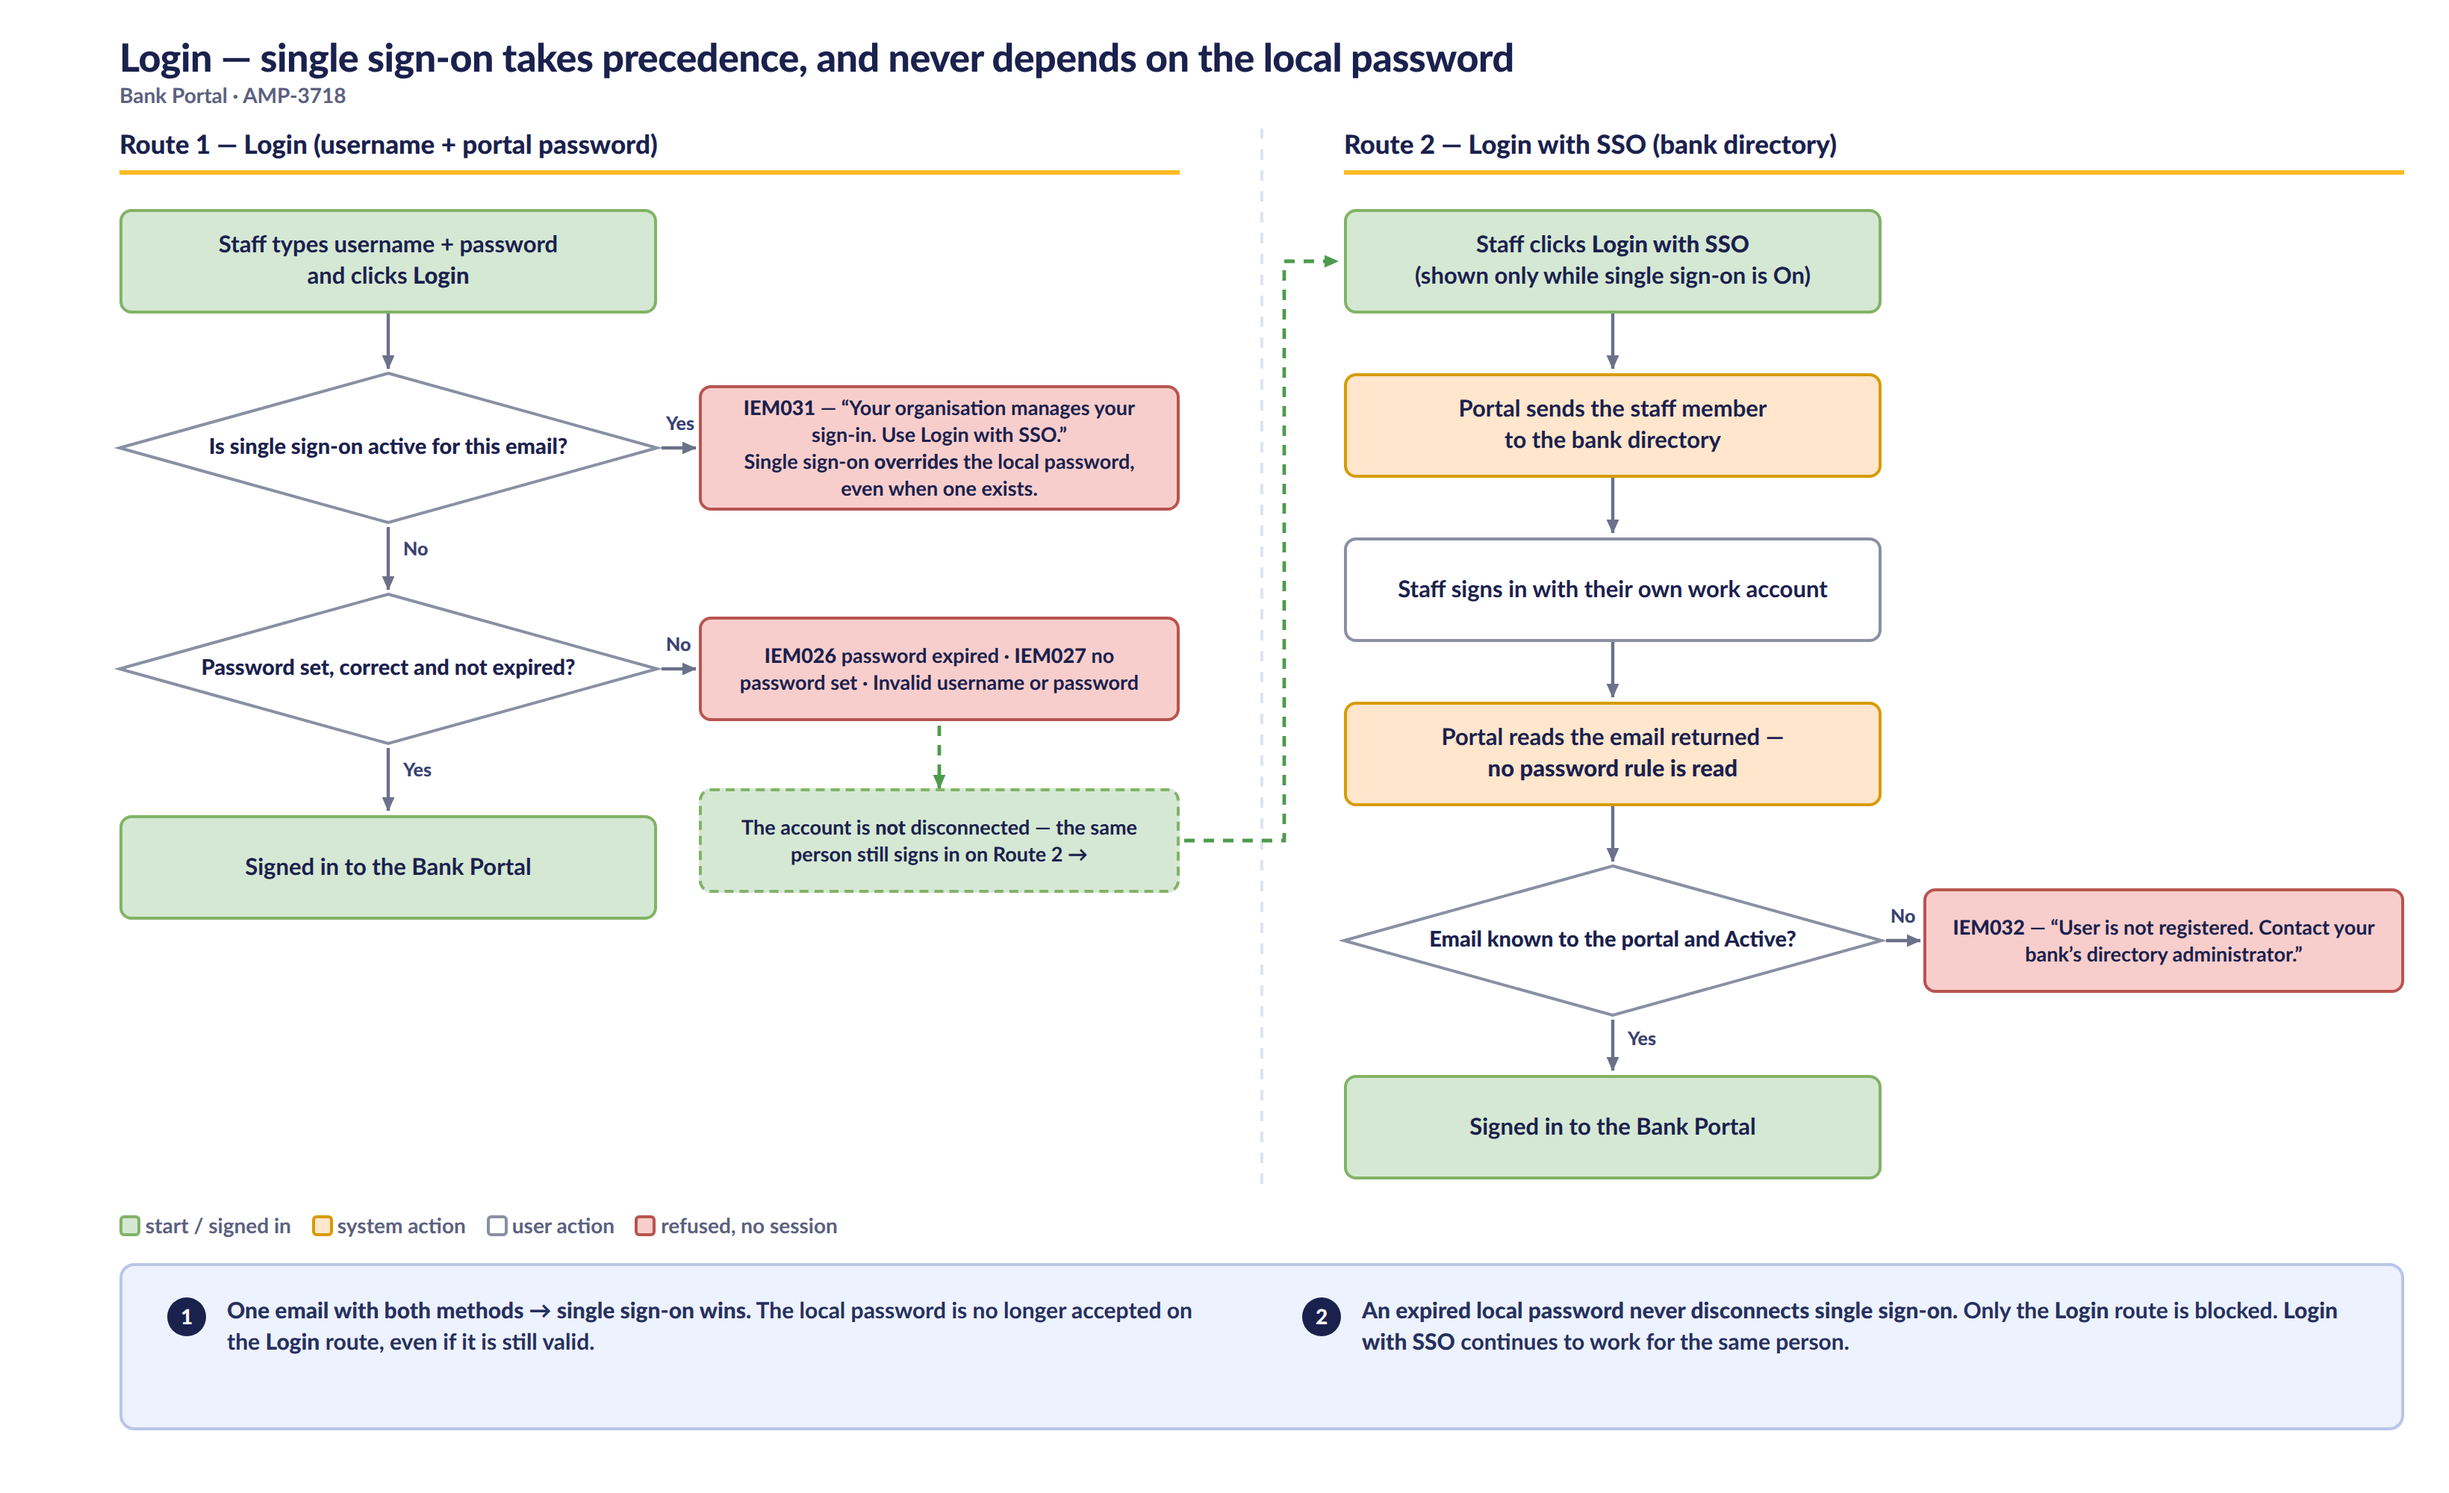
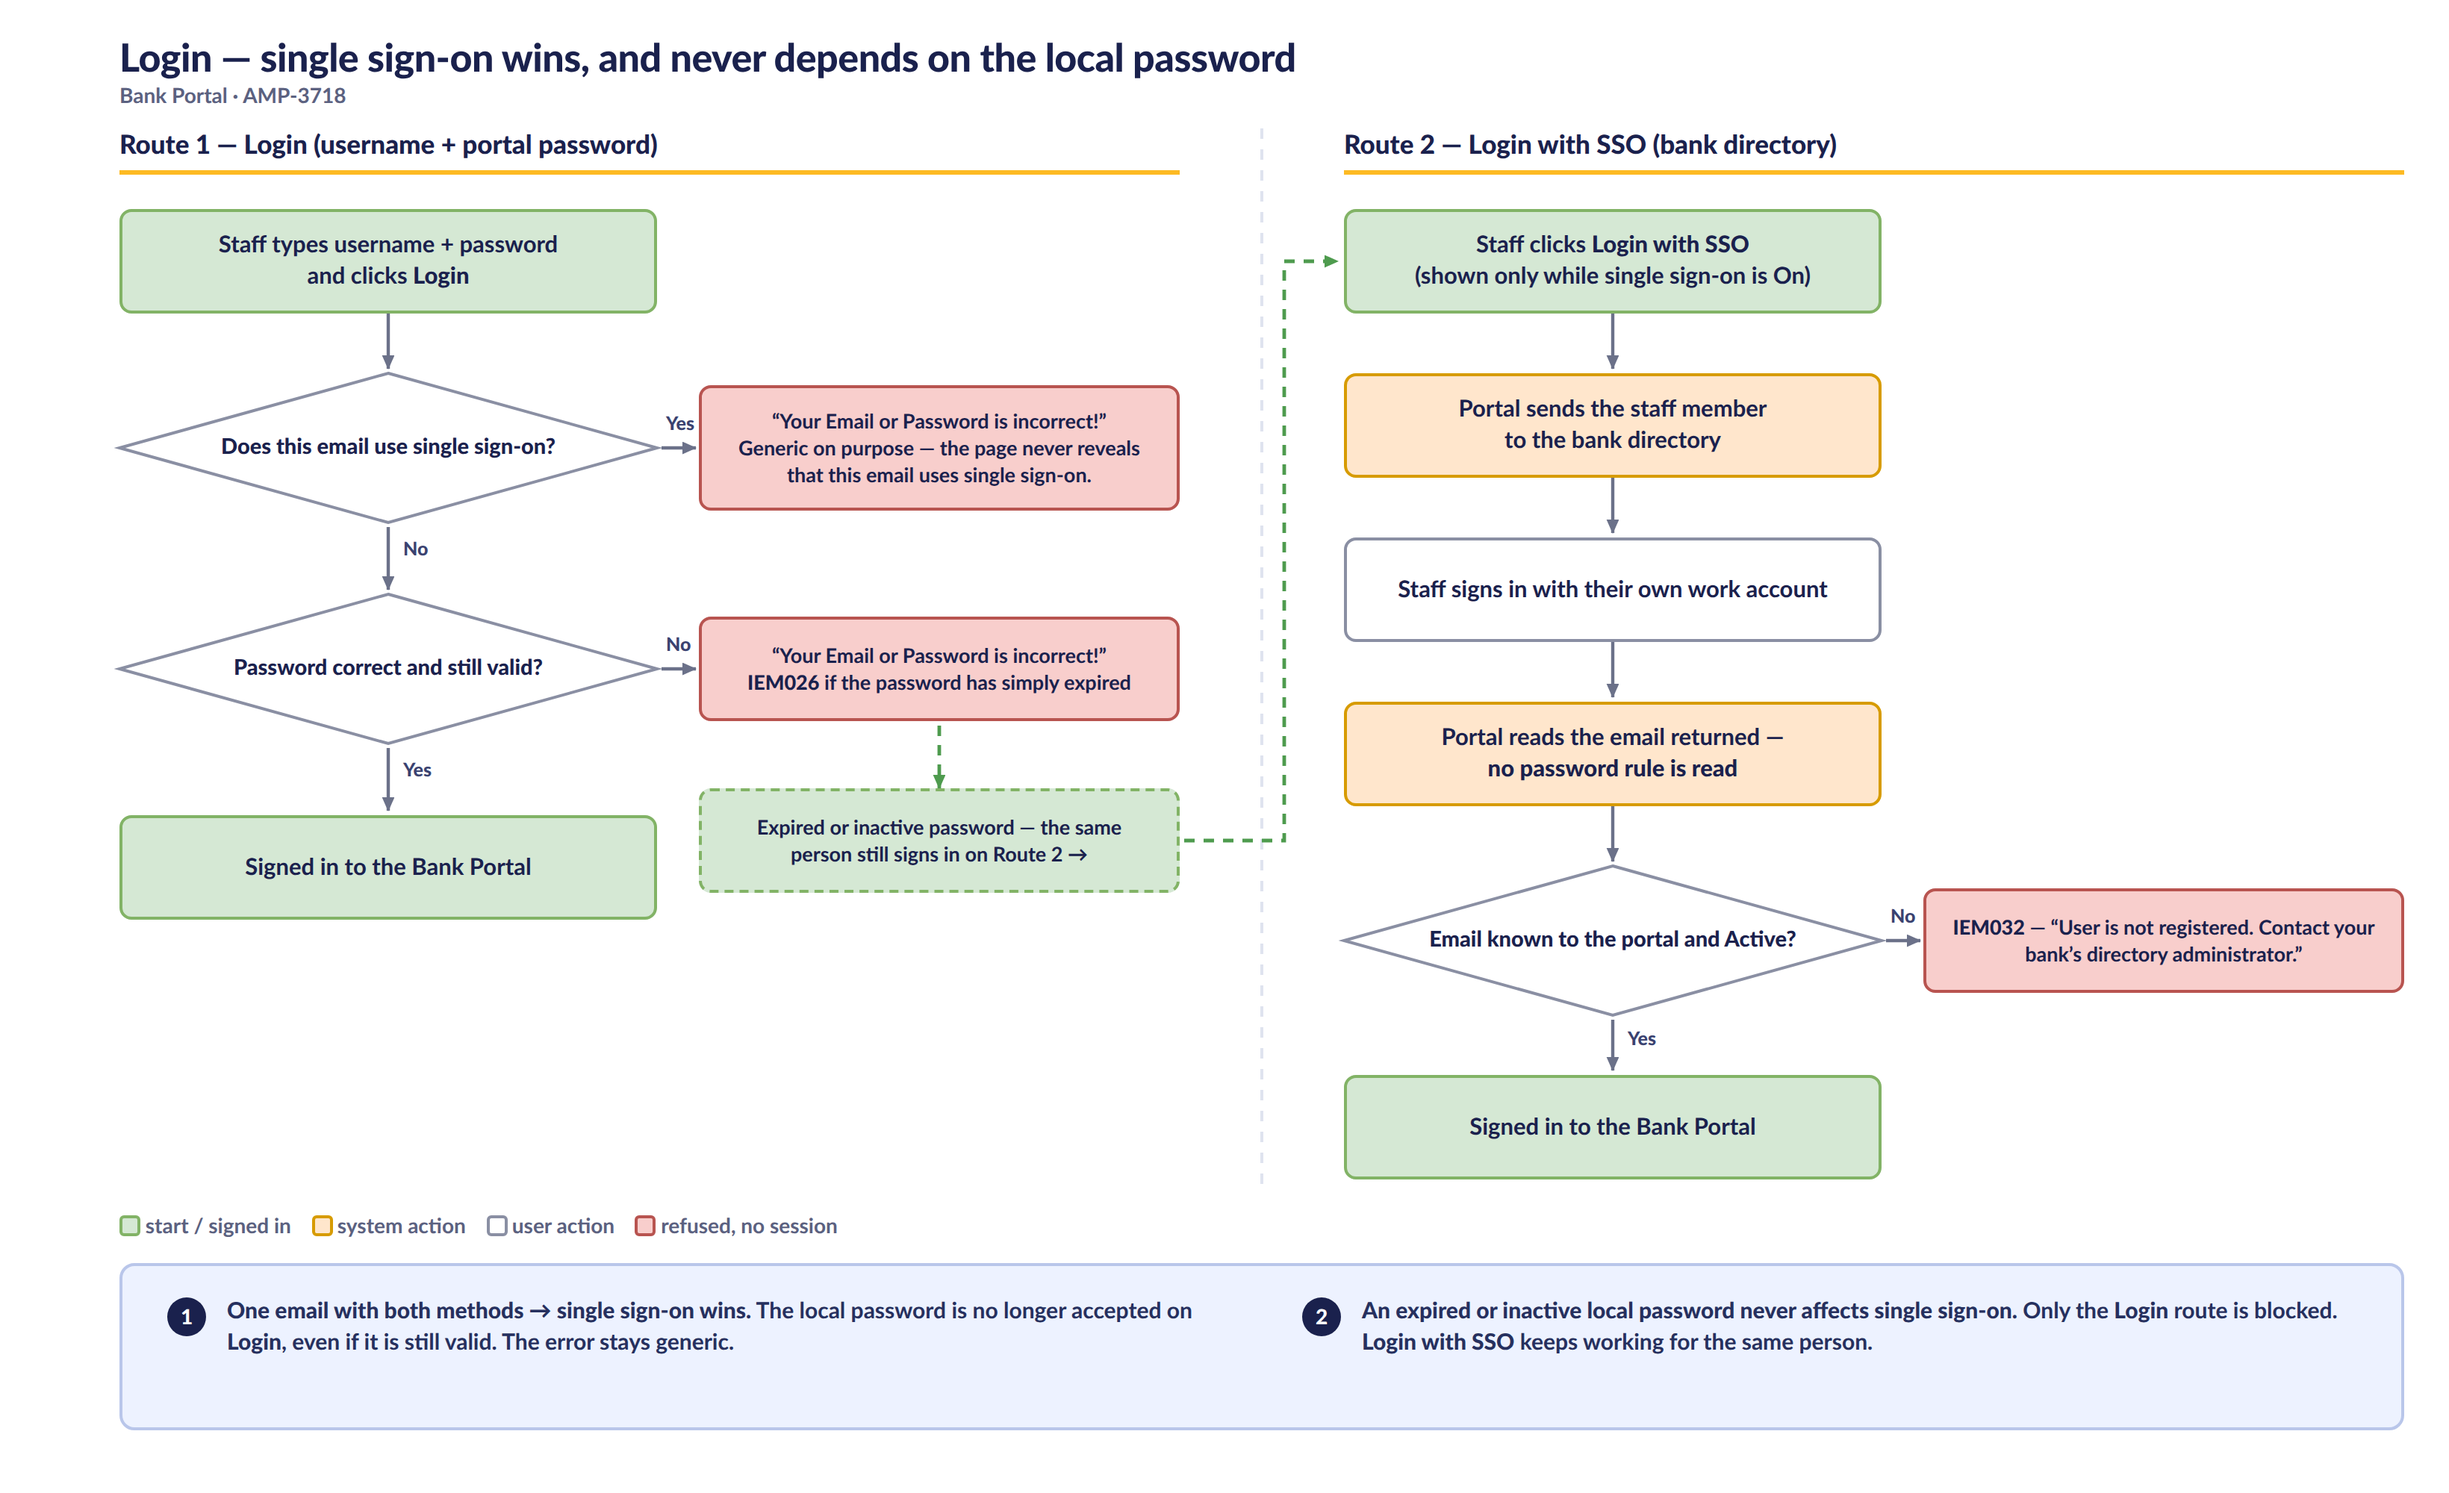
SSO: generic error on the local route when the email uses single sign-on
Claude-Session: https://claude.ai/code/session_01WLahjovvzGmaLqPdFzgAEY

diff --git a/sso-prototype/index.html b/sso-prototype/index.html
@@ -337,11 +337,10 @@ function renderPrimary(){
 u.addEventListener('input',()=>{clearMsgs();renderPrimary()});
 p.addEventListener('input',()=>{clearMsgs();renderPrimary()});
 $('#eye').addEventListener('click',()=>{S.showPwd=!S.showPwd;p.type=S.showPwd?'text':'password';$('#eye').innerHTML=S.showPwd?EYEOFF:EYE});
-$('#forgot').addEventListener('click',()=>{const acc=USERS[u.value.trim().toLowerCase()];if(usesSso(acc)){toast('Your organisation manages your sign-in. Use “Login with SSO”.')}else{toast('If this username exists, a reset email has been sent.')}});
+$('#forgot').addEventListener('click',()=>{toast('If this username exists, a reset email has been sent.')});
 $('#loginCard').addEventListener('submit',()=>{
   const e=u.value.trim().toLowerCase(),acc=USERS[e];clearMsgs();
-  if(acc&&acc.src==='Directory'){$('#userFi').classList.add('err');userMsg.innerHTML=inlineErr('Your organisation manages your sign-in. Use “Login with SSO”.');return}
-  if(!acc||acc.src!=='Portal'||p.value==='wrong'){$('#pwdFi').classList.add('err');pwdMsg.innerHTML=inlineErr('Invalid username or password.');return}
+  if(usesSso(acc)||!acc||acc.src!=='Portal'||p.value==='wrong'){$('#pwdFi').classList.add('err');pwdMsg.innerHTML=inlineErr('Your Email or Password is incorrect!');return}
   if(acc.pwd==='expired'){$('#pwdFi').classList.add('err');pwdMsg.innerHTML=inlineErr('<b>Your password has expired.</b> Reset it using “Forgot password?” to continue.');return}
   if(acc.pwd==='notset'){$('#pwdFi').classList.add('err');pwdMsg.innerHTML=inlineErr('No password has been set yet. Check your email for the invitation link.');return}
   signIn(e,'password');
